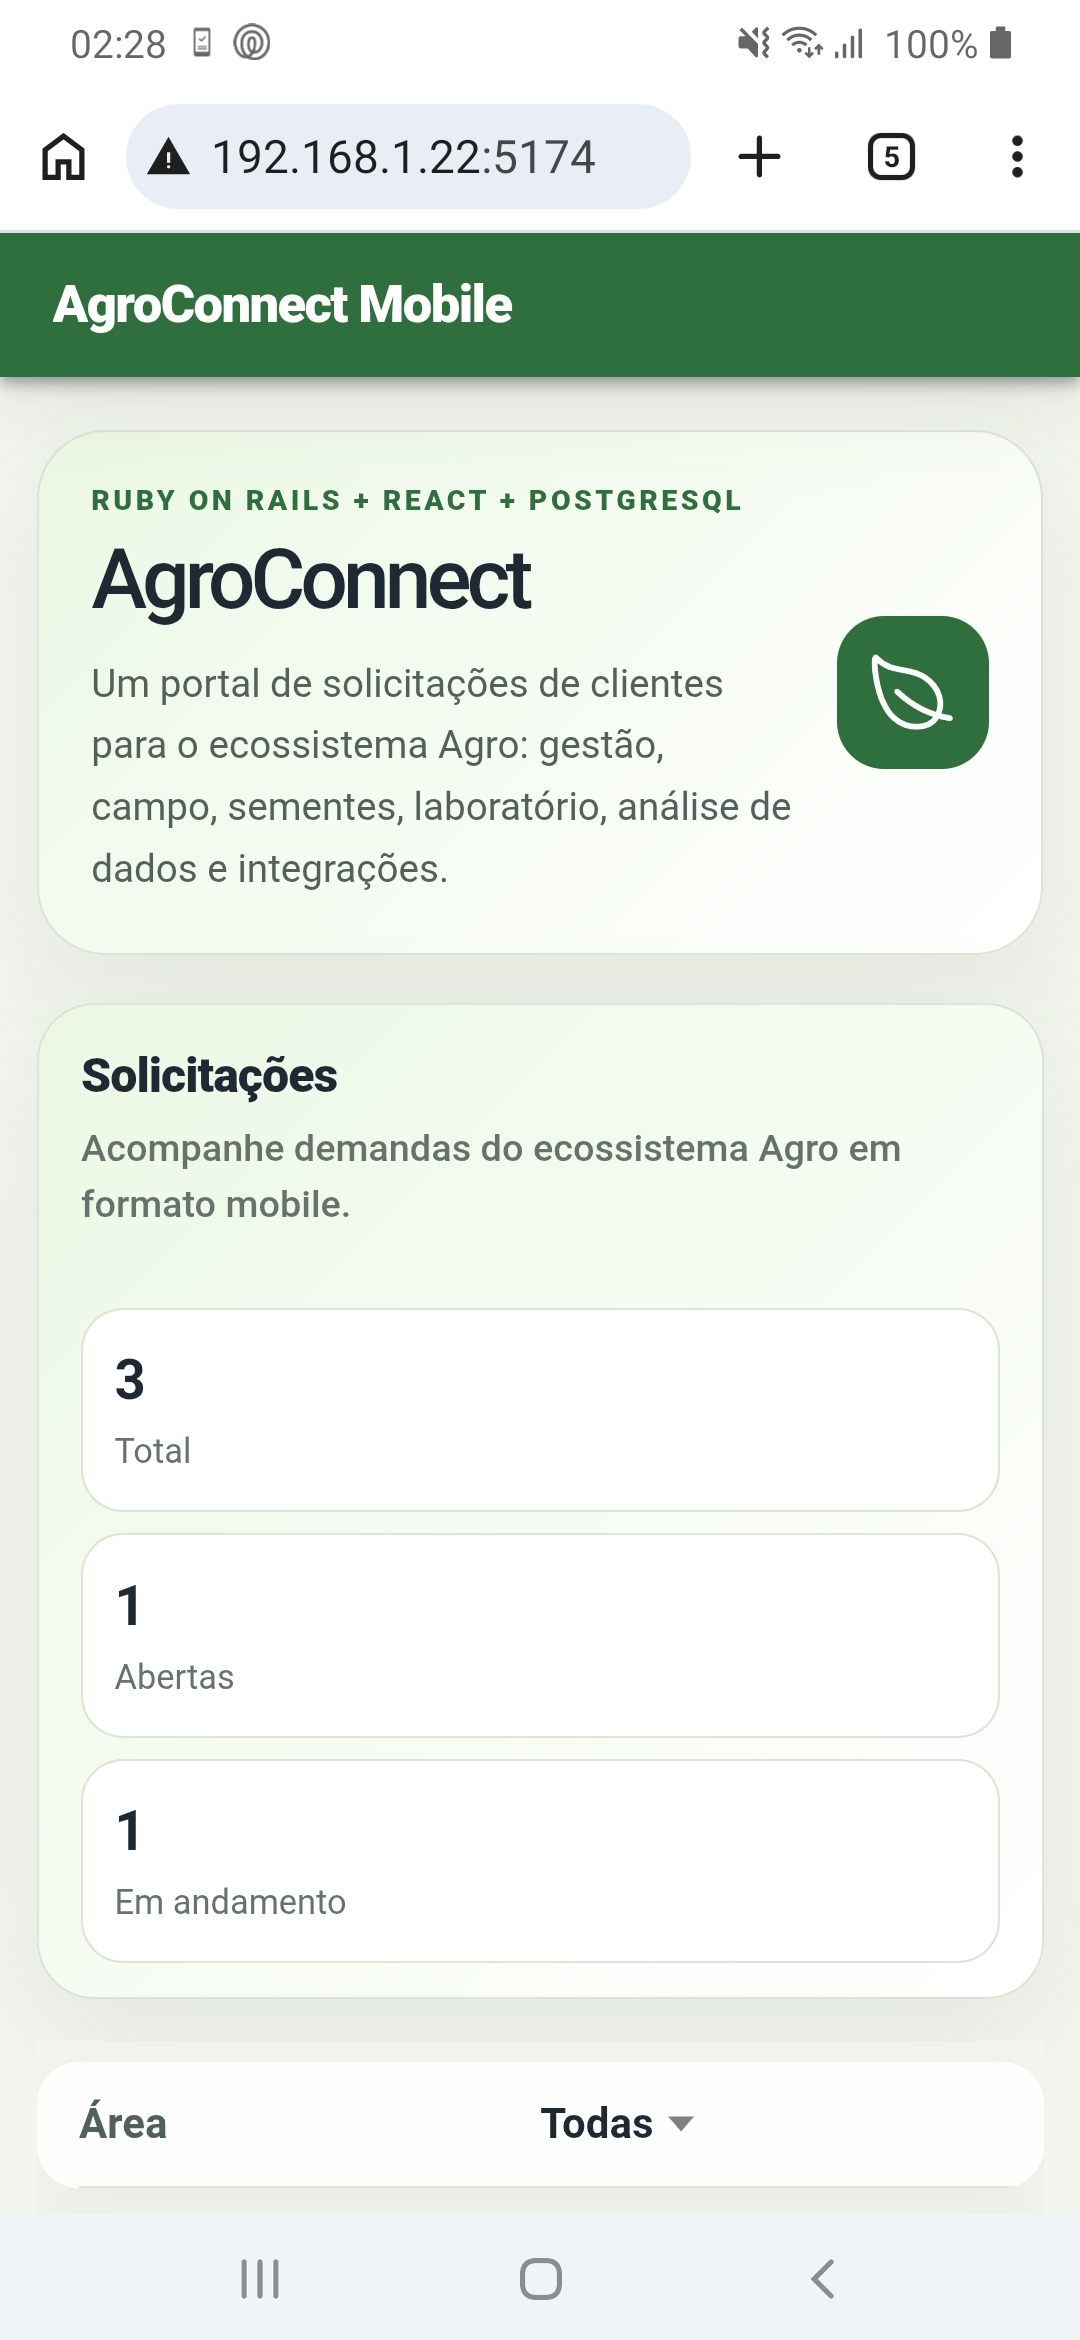
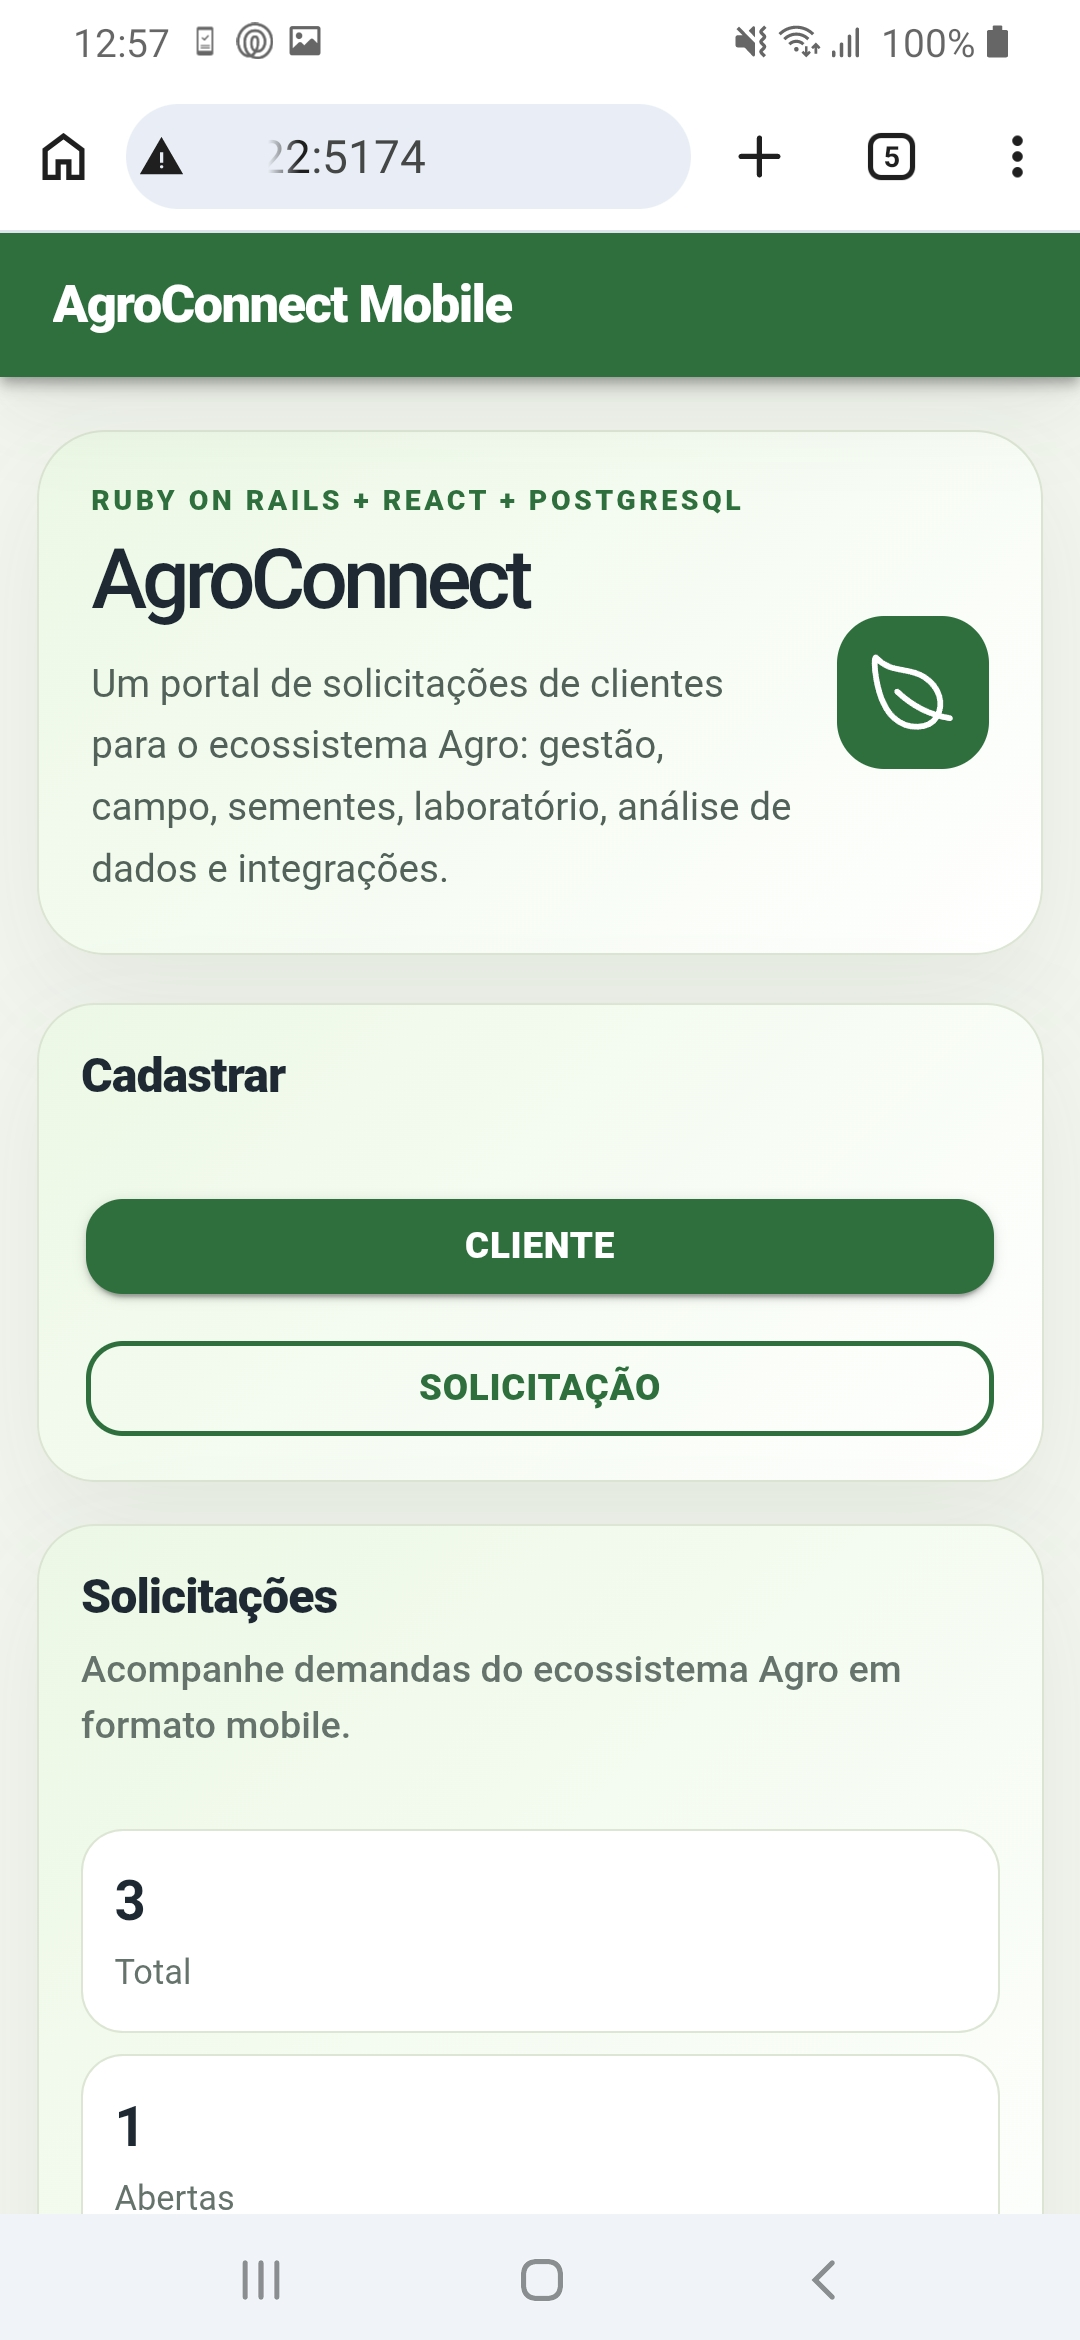
docs: update README screenshots with new mobile screens

diff --git a/README.md b/README.md
@@ -12,7 +12,7 @@ O AgroConnect funciona como uma plataforma leve de gestão de solicitações par
 
 O backoffice web permite que uma equipe interna cadastre clientes, classifique solicitações por área de produto, acompanhe o status dos atendimentos, defina prioridades e mantenha um histórico de comunicação por meio de comentários.
 
-A versão mobile foi criada com Ionic React para oferecer uma interface otimizada para dispositivos móveis, permitindo acompanhar solicitações, filtrar demandas, adicionar comentários e avançar status diretamente em uma experiência mobile.
+A versão mobile foi criada com Ionic React para oferecer uma interface otimizada para dispositivos móveis, permitindo acompanhar solicitações, filtrar demandas, adicionar comentários, avançar status e cadastrar novos clientes e solicitações diretamente pela interface mobile.
 
 O objetivo é oferecer uma base clara e extensível para um backoffice de atendimento e operações, que possa evoluir futuramente para uma plataforma mais ampla de suporte, onboarding, customer success ou acompanhamento de demandas em campo.
 
@@ -24,16 +24,25 @@ O objetivo é oferecer uma base clara e extensível para um backoffice de atendi
 
 ### Aplicativo Mobile
 
-<div>
-  <img src="docs/screenshots/mobile1.jpg" alt="Aplicativo Mobile - Tela inicial" width="280" />
-  <img src="docs/screenshots/mobile2.jpg" alt="Aplicativo Mobile - Solicitações" width="280" />
+<div align="center">
+  <img src="docs/screenshots/mobile1.jpg" alt="Aplicativo Mobile - Tela inicial" width="220" />
+  <img src="docs/screenshots/mobile2.jpg" alt="Aplicativo Mobile - Solicitações" width="220" />
+  <img src="docs/screenshots/mobile3.jpg" alt="Aplicativo Mobile - Detalhes da solicitação" width="220" />
+</div>
+
+<br />
+
+<div align="center">
+  <img src="docs/screenshots/mobile4.jpg" alt="Aplicativo Mobile - Cadastro de cliente" width="220" />
+  <img src="docs/screenshots/mobile5.jpg" alt="Aplicativo Mobile - Cadastro de solicitação" width="220" />
+  <img src="docs/screenshots/mobile6.jpg" alt="Aplicativo Mobile - Comentários e status" width="220" />
 </div>
 
 ## Funcionalidades Principais
 
-- Cadastro de clientes
+- Cadastro de clientes pelo backoffice web e pelo mobile
+- Criação de solicitações pelo backoffice web e pelo mobile
 - Catálogo de áreas de produto
-- Criação de solicitações
 - Listagem e filtragem de solicitações
 - Acompanhamento de solicitações por status
 - Filtro por área de produto
@@ -363,6 +372,12 @@ A cobertura inclui:
 - Validação dos formatadores de status e prioridade
 - Renderização da tela mobile com dados mockados da API
 - Validação da exibição de solicitações, status, prioridades e comentários
+- Testes do modal de cadastro de clientes
+- Testes do modal de cadastro de solicitações
+- Validação de eventos de formulário, como alteração de campos, selects e datas
+- Validação de ações de salvar, cancelar e fechar modais
+- Validação de CPF/CNPJ no cadastro de clientes
+- Uso de mocks centralizados para componentes Ionic, Capacitor Network, Ionicons e API
 
 Executar todos os testes do mobile:
 
@@ -416,6 +431,5 @@ O AgroConnect foi projetado como um MVP extensível. Possíveis próximos passos
 - Trilha de auditoria para alterações de status e comentários
 - Busca, paginação e filtros avançados
 - Quadro de tickets em formato Kanban
-- Criação de solicitações diretamente pelo app mobile
 - Build Android/iOS com Capacitor
 - Notificações push para acompanhamento de solicitações
